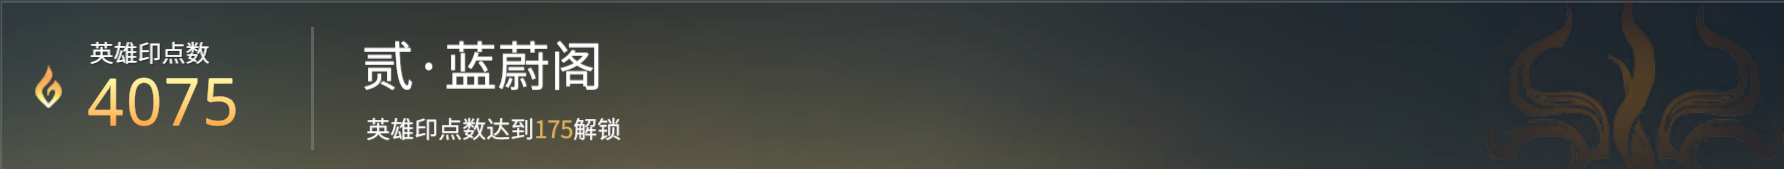
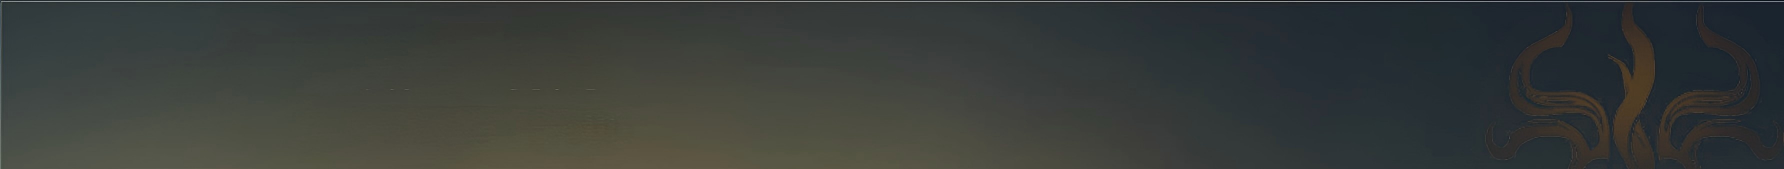
feat:补充英雄印细节

diff --git a/NarakaBladepoint.Modules/CommonFunction/UI/Store/Views/StoreHeroTagPage.xaml b/NarakaBladepoint.Modules/CommonFunction/UI/Store/Views/StoreHeroTagPage.xaml
@@ -3,6 +3,7 @@
     xmlns="http://schemas.microsoft.com/winfx/2006/xaml/presentation"
     xmlns:x="http://schemas.microsoft.com/winfx/2006/xaml"
     xmlns:controls="clr-namespace:NarakaBladepoint.Controls;assembly=NarakaBladepoint.Controls"
+    xmlns:converters="clr-namespace:NarakaBladepoint.Modules.CommonFunction.UI.Store.Converters"
     xmlns:d="http://schemas.microsoft.com/expression/blend/2008"
     xmlns:local="clr-namespace:NarakaBladepoint.Modules.CommonFunction.UI.Store.Views"
     xmlns:mc="http://schemas.openxmlformats.org/markup-compatibility/2006"
@@ -12,6 +13,25 @@
     d:DesignHeight="720"
     d:DesignWidth="1080"
     mc:Ignorable="d">
+    <views:UserControlBase.Resources>
+        <converters:EqualityConverter x:Key="EqualityConverter" />
+
+        <!--  Hero Tag Info Panel Style  -->
+        <Style x:Key="HeroTagInfoPanelStyle" TargetType="StackPanel">
+            <Setter Property="Background" Value="{StaticResource HeroTagBackground2Brush}" />
+            <Style.Triggers>
+                <DataTrigger Binding="{Binding SelectedTagIndex}" Value="1">
+                    <Setter Property="Background" Value="{StaticResource HeroTagBackground1Brush}" />
+                </DataTrigger>
+                <DataTrigger Binding="{Binding SelectedTagIndex}" Value="2">
+                    <Setter Property="Background" Value="{StaticResource HeroTagBackground1Brush}" />
+                </DataTrigger>
+                <DataTrigger Binding="{Binding SelectedTagIndex}" Value="3">
+                    <Setter Property="Background" Value="{StaticResource HeroTagBackground1Brush}" />
+                </DataTrigger>
+            </Style.Triggers>
+        </Style>
+    </views:UserControlBase.Resources>
     <Grid d:Background="{StaticResource Background2}">
         <Grid Margin="50,0,50,120">
             <Grid.RowDefinitions>
@@ -21,17 +41,12 @@
 
             <!--  Top header - Diamond info  -->
             <StackPanel HorizontalAlignment="Right" Orientation="Horizontal">
-                <TextBlock
-                    VerticalAlignment="Center"
-                    FontSize="12"
-                    Foreground="White"
-                    Text="💎 " />
-                <TextBlock
-                    VerticalAlignment="Center"
-                    d:Text="86924"
-                    FontSize="12"
-                    FontWeight="Bold"
-                    Foreground="White" />
+                <controls:ToggleButtonComboBox
+                    Width="200"
+                    Height="30"
+                    Margin="0,0,15,0"
+                    ItemsSource="{Binding QualityList}"
+                    SelectedIndex="{Binding SelectedQualityIndex}" />
             </StackPanel>
 
             <!--  Main content grid  -->
@@ -54,7 +69,7 @@
                             <controls:HighlightBorder
                                 Height="45"
                                 Background="{StaticResource DefaultTransientBlackBackground2}"
-                                BorderBrush="White"
+                                BorderBrush="{Binding SelectedTagIndex, Converter={StaticResource EqualityConverter}, ConverterParameter=1}"
                                 BorderThickness="2">
                                 <TextBlock
                                     Margin="15,0,0,0"
@@ -72,7 +87,9 @@
                             <controls:HighlightBorder
                                 Height="45"
                                 Margin="0,8,0,0"
-                                Background="{StaticResource DefaultTransientBlackBackground2}">
+                                Background="{StaticResource DefaultTransientBlackBackground2}"
+                                BorderBrush="{Binding SelectedTagIndex, Converter={StaticResource EqualityConverter}, ConverterParameter=2}"
+                                BorderThickness="2">
                                 <TextBlock
                                     Margin="15,0,0,0"
                                     VerticalAlignment="Center"
@@ -89,7 +106,9 @@
                             <controls:HighlightBorder
                                 Height="45"
                                 Margin="0,8,0,0"
-                                Background="{StaticResource DefaultTransientBlackBackground2}">
+                                Background="{StaticResource DefaultTransientBlackBackground2}"
+                                BorderBrush="{Binding SelectedTagIndex, Converter={StaticResource EqualityConverter}, ConverterParameter=3}"
+                                BorderThickness="2">
                                 <TextBlock
                                     Margin="15,0,0,0"
                                     VerticalAlignment="Center"
@@ -106,7 +125,9 @@
                             <controls:HighlightBorder
                                 Height="45"
                                 Margin="0,8,0,0"
-                                Background="{StaticResource DefaultTransientBlackBackground2}">
+                                Background="{StaticResource DefaultTransientBlackBackground2}"
+                                BorderBrush="{Binding SelectedTagIndex, Converter={StaticResource EqualityConverter}, ConverterParameter=4}"
+                                BorderThickness="2">
                                 <TextBlock
                                     Margin="15,0,0,0"
                                     VerticalAlignment="Center"
@@ -123,7 +144,9 @@
                             <controls:HighlightBorder
                                 Height="45"
                                 Margin="0,8,0,0"
-                                Background="{StaticResource DefaultTransientBlackBackground2}">
+                                Background="{StaticResource DefaultTransientBlackBackground2}"
+                                BorderBrush="{Binding SelectedTagIndex, Converter={StaticResource EqualityConverter}, ConverterParameter=5}"
+                                BorderThickness="2">
                                 <TextBlock
                                     Margin="15,0,0,0"
                                     VerticalAlignment="Center"
@@ -140,13 +163,15 @@
                             <controls:HighlightBorder
                                 Height="45"
                                 Margin="0,8,0,0"
-                                Background="{StaticResource DefaultTransientBlackBackground2}">
+                                Background="{StaticResource DefaultTransientBlackBackground2}"
+                                BorderBrush="{Binding SelectedTagIndex, Converter={StaticResource EqualityConverter}, ConverterParameter=6}"
+                                BorderThickness="2">
                                 <TextBlock
                                     Margin="15,0,0,0"
                                     VerticalAlignment="Center"
                                     FontSize="14"
                                     Foreground="White"
-                                    Text="{Binding SelectedTagName}" />
+                                    Text="陆·紫冥阁" />
                                 <controls:HighlightBorder.InputBindings>
                                     <MouseBinding
                                         Command="{Binding SelectTagCommand}"
@@ -175,8 +200,9 @@
                     <!--  Info panel - Aligned with ItemsControl  -->
                     <StackPanel
                         Name="infoPanel"
-                        d:Background="Gray"
-                        Orientation="Vertical">
+                        d:Background="{StaticResource HeroTagBackground1Brush}"
+                        Orientation="Vertical"
+                        Style="{StaticResource HeroTagInfoPanelStyle}">
                         <StackPanel VerticalAlignment="Center" Orientation="Vertical">
                             <TextBlock Foreground="Gray" Text="英雄印点数" />
                             <TextBlock
@@ -203,7 +229,7 @@
                         </ItemsControl.Template>
                         <ItemsControl.ItemsPanel>
                             <ItemsPanelTemplate>
-                                <UniformGrid Columns="5" />
+                                <UniformGrid Columns="5" Rows="3" />
                             </ItemsPanelTemplate>
                         </ItemsControl.ItemsPanel>
                         <ItemsControl.ItemTemplate>

diff --git a/NarakaBladepoint.Modules/EventCenter/UI/Main/Views/EventCenterMainPage.xaml b/NarakaBladepoint.Modules/EventCenter/UI/Main/Views/EventCenterMainPage.xaml
@@ -1,25 +1,25 @@
 <bases:UserControlBase
-x:Class="NarakaBladepoint.Modules.EventCenter.UI.Main.Views.EventCenterMainPage"
-xmlns="http://schemas.microsoft.com/winfx/2006/xaml/presentation"
-xmlns:x="http://schemas.microsoft.com/winfx/2006/xaml"
-xmlns:b="clr-namespace:Microsoft.Xaml.Behaviors;assembly=Microsoft.Xaml.Behaviors"
-xmlns:baize="clr-namespace:NarakaBladepoint.Modules.EventCenter.UI.BaiZeCard.Views"
-xmlns:bases="clr-namespace:NarakaBladepoint.Framework.Core.Bases.Views;assembly=NarakaBladepoint.Framework"
-xmlns:bindReward="clr-namespace:NarakaBladepoint.Modules.EventCenter.UI.BindReward.Views"
-xmlns:controls="clr-namespace:NarakaBladepoint.Controls;assembly=NarakaBladepoint.Controls"
-xmlns:d="http://schemas.microsoft.com/expression/blend/2008"
-xmlns:latestNews="clr-namespace:NarakaBladepoint.Modules.EventCenter.UI.LatestNews.Views"
-xmlns:mc="http://schemas.openxmlformats.org/markup-compatibility/2006"
-xmlns:moonGazingPavilion="clr-namespace:NarakaBladepoint.Modules.EventCenter.UI.MoonGazingPavilion.Views"
-xmlns:netEasePayRewards="clr-namespace:NarakaBladepoint.Modules.EventCenter.UI.NetEasePayRewards.Views"
-xmlns:passingTheFlame="clr-namespace:NarakaBladepoint.Modules.EventCenter.UI.PassingTheFlame.Views"
-xmlns:patchNotePage="clr-namespace:NarakaBladepoint.Modules.EventCenter.UI.PatchNote.Views"
-xmlns:penglaiGuide="clr-namespace:NarakaBladepoint.Modules.EventCenter.UI.PenglaiGuide.Views"
-xmlns:prism="http://prismlibrary.com/"
-xmlns:targetedChestGuarantee="clr-namespace:NarakaBladepoint.Modules.EventCenter.UI.TargetedChestGuarantee.Views"
-xmlns:timeLimitedEvent="clr-namespace:NarakaBladepoint.Modules.EventCenter.UI.TimeLimitedEvent.Views"
-xmlns:viewmodels="clr-namespace:NarakaBladepoint.Modules.EventCenter.UI.Main.ViewModels"
-xmlns:welcomeback="clr-namespace:NarakaBladepoint.Modules.EventCenter.UI.WelcomeBackEvent.Views"
+    x:Class="NarakaBladepoint.Modules.EventCenter.UI.Main.Views.EventCenterMainPage"
+    xmlns="http://schemas.microsoft.com/winfx/2006/xaml/presentation"
+    xmlns:x="http://schemas.microsoft.com/winfx/2006/xaml"
+    xmlns:b="clr-namespace:Microsoft.Xaml.Behaviors;assembly=Microsoft.Xaml.Behaviors"
+    xmlns:baize="clr-namespace:NarakaBladepoint.Modules.EventCenter.UI.BaiZeCard.Views"
+    xmlns:bases="clr-namespace:NarakaBladepoint.Framework.Core.Bases.Views;assembly=NarakaBladepoint.Framework"
+    xmlns:bindReward="clr-namespace:NarakaBladepoint.Modules.EventCenter.UI.BindReward.Views"
+    xmlns:controls="clr-namespace:NarakaBladepoint.Controls;assembly=NarakaBladepoint.Controls"
+    xmlns:d="http://schemas.microsoft.com/expression/blend/2008"
+    xmlns:latestNews="clr-namespace:NarakaBladepoint.Modules.EventCenter.UI.LatestNews.Views"
+    xmlns:mc="http://schemas.openxmlformats.org/markup-compatibility/2006"
+    xmlns:moonGazingPavilion="clr-namespace:NarakaBladepoint.Modules.EventCenter.UI.MoonGazingPavilion.Views"
+    xmlns:netEasePayRewards="clr-namespace:NarakaBladepoint.Modules.EventCenter.UI.NetEasePayRewards.Views"
+    xmlns:passingTheFlame="clr-namespace:NarakaBladepoint.Modules.EventCenter.UI.PassingTheFlame.Views"
+    xmlns:patchNotePage="clr-namespace:NarakaBladepoint.Modules.EventCenter.UI.PatchNote.Views"
+    xmlns:penglaiGuide="clr-namespace:NarakaBladepoint.Modules.EventCenter.UI.PenglaiGuide.Views"
+    xmlns:prism="http://prismlibrary.com/"
+    xmlns:targetedChestGuarantee="clr-namespace:NarakaBladepoint.Modules.EventCenter.UI.TargetedChestGuarantee.Views"
+    xmlns:timeLimitedEvent="clr-namespace:NarakaBladepoint.Modules.EventCenter.UI.TimeLimitedEvent.Views"
+    xmlns:viewmodels="clr-namespace:NarakaBladepoint.Modules.EventCenter.UI.Main.ViewModels"
+    xmlns:welcomeback="clr-namespace:NarakaBladepoint.Modules.EventCenter.UI.WelcomeBackEvent.Views"
     d:DataContext="{d:DesignInstance Type=viewmodels:EventCenterMainPageViewModel}"
     d:DesignHeight="720"
     d:DesignWidth="1080"
@@ -157,7 +157,8 @@ xmlns:welcomeback="clr-namespace:NarakaBladepoint.Modules.EventCenter.UI.Welcome
                     VerticalAlignment="Center"
                     Background="Transparent"
                     Header=""
-                    Style="{StaticResource CommonFunctionTabItem}" />
+                    Style="{StaticResource CommonFunctionTabItem}"
+                    Visibility="Hidden" />
             </TabControl>
         </Grid>
         <controls:EscBackControl

diff --git a/NarakaBladepoint.Controls/Themes/ImageSourceStyle.xaml b/NarakaBladepoint.Controls/Themes/ImageSourceStyle.xaml
@@ -6,6 +6,10 @@
     <BitmapImage x:Key="Background4Image" UriSource="pack://application:,,,/NarakaBladepoint.Resources;component/Image/background4.png" />
     <BitmapImage x:Key="Background5Image" UriSource="pack://application:,,,/NarakaBladepoint.Resources;component/Image/background5.png" />
 
+    <!--  Hero Tag Background Images  -->
+    <BitmapImage x:Key="HeroTagBackground1Image" UriSource="pack://application:,,,/NarakaBladepoint.Resources;component/Image/Store/HeroTag/background1.png" />
+    <BitmapImage x:Key="HeroTagBackground2Image" UriSource="pack://application:,,,/NarakaBladepoint.Resources;component/Image/Store/HeroTag/background2.png" />
+
     <!--  Button Images  -->
     <BitmapImage x:Key="MusicImage" UriSource="pack://application:,,,/NarakaBladepoint.Resources;component/Image/Button/音乐.png" />
     <BitmapImage x:Key="TutorialImage" UriSource="pack://application:,,,/NarakaBladepoint.Resources;component/Image/Button/教程.png" />

diff --git a/NarakaBladepoint.Controls/Themes/BrushStyle.xaml b/NarakaBladepoint.Controls/Themes/BrushStyle.xaml
@@ -23,6 +23,16 @@
         x:Key="PersonalInfoDetailsBackgroundBrush"
         ImageSource="{StaticResource PersonalInfoDetailsBackgroundImage}"
         Stretch="Fill" />
+
+    <!--  Hero Tag Background Brushes  -->
+    <ImageBrush
+        x:Key="HeroTagBackground1Brush"
+        ImageSource="{StaticResource HeroTagBackground1Image}"
+        Stretch="Fill" />
+    <ImageBrush
+        x:Key="HeroTagBackground2Brush"
+        ImageSource="{StaticResource HeroTagBackground2Image}"
+        Stretch="Fill" />
     <SolidColorBrush x:Key="DefaultTransientBlackBackground" Color="#1A000000" />
     <SolidColorBrush x:Key="DefaultTransientBlackBackground2" Color="#2A000000" />
     <SolidColorBrush x:Key="DefaultTransientBlackBackground3" Color="#3A000000" />

diff --git a/NarakaBladepoint.Modules/CommonFunction/UI/Store/Views/StoreOverviewPage.xaml b/NarakaBladepoint.Modules/CommonFunction/UI/Store/Views/StoreOverviewPage.xaml
@@ -42,6 +42,7 @@
                     Orientation="Vertical">
                     <controls:ToggleButtonComboBox
                         Height="30"
+                        Name="combobox1"
                         ItemsSource="{Binding QualityList}"
                         SelectedIndex="{Binding SelectedQualityIndex}" />
                     <controls:ToggleButtonComboBox

diff --git a/NarakaBladepoint.Modules/CommonFunction/UI/Store/ViewModels/StoreHeroTagPageViewModel.cs b/NarakaBladepoint.Modules/CommonFunction/UI/Store/ViewModels/StoreHeroTagPageViewModel.cs
@@ -12,6 +12,8 @@ namespace NarakaBladepoint.Modules.CommonFunction.UI.Store.ViewModels
         private int _selectedTagIndex = 1;
         private string _selectedTagName = "壹·青空阁";
         private ObservableCollection<ImageSource> _currentTagImages;
+        private ObservableCollection<string> _qualityList;
+        private int _selectedQualityIndex = 0;
         private DelegateCommand<string> _selectTagCommand;
 
         // 标签索引与名称的映射
@@ -30,8 +32,10 @@ namespace NarakaBladepoint.Modules.CommonFunction.UI.Store.ViewModels
             get => _selectedTagIndex;
             set
             {
-                if (SetProperty(ref _selectedTagIndex, value))
+                if (_selectedTagIndex != value)
                 {
+                    _selectedTagIndex = value;
+                    RaisePropertyChanged();
                     LoadTagImages(_selectedTagIndex);
                     // 更新选中的标签名称
                     if (TagNameMap.TryGetValue(value, out var tagName))
@@ -45,13 +49,65 @@ namespace NarakaBladepoint.Modules.CommonFunction.UI.Store.ViewModels
         public string SelectedTagName
         {
             get => _selectedTagName;
-            set => SetProperty(ref _selectedTagName, value);
+            set
+            {
+                if (_selectedTagName != value)
+                {
+                    _selectedTagName = value;
+                    RaisePropertyChanged();
+                }
+            }
         }
 
         public ObservableCollection<ImageSource> CurrentTagImages
         {
             get => _currentTagImages;
-            set => SetProperty(ref _currentTagImages, value);
+            set
+            {
+                if (_currentTagImages != value)
+                {
+                    _currentTagImages = value;
+                    RaisePropertyChanged();
+                }
+            }
+        }
+
+        /// <summary>
+        /// 品质列表（全部品质、良品、优品、极品、神品）
+        /// </summary>
+        public ObservableCollection<string> QualityList
+        {
+            get
+            {
+                if (_qualityList == null)
+                {
+                    _qualityList = new ObservableCollection<string>
+                    {
+                        "全部品质",
+                        "良品",
+                        "优品",
+                        "极品",
+                        "神品"
+                    };
+                }
+                return _qualityList;
+            }
+        }
+
+        /// <summary>
+        /// 选中的品质索引
+        /// </summary>
+        public int SelectedQualityIndex
+        {
+            get => _selectedQualityIndex;
+            set
+            {
+                if (_selectedQualityIndex != value)
+                {
+                    _selectedQualityIndex = value;
+                    RaisePropertyChanged();
+                }
+            }
         }
 
         public DelegateCommand<string> SelectTagCommand =>

diff --git a/NarakaBladepoint.Modules/CommonFunction/UI/Store/Converters/EqualityConverter.cs b/NarakaBladepoint.Modules/CommonFunction/UI/Store/Converters/EqualityConverter.cs
@@ -1,0 +1,46 @@
+using System.Globalization;
+using System.Windows.Data;
+using System.Windows.Media;
+
+namespace NarakaBladepoint.Modules.CommonFunction.UI.Store.Converters
+{
+    /// <summary>
+    /// 比较两个值是否相等的转换器，用于返回不同的Brush或其他值
+    /// 相等时返回White，不相等时返回Transparent
+    /// </summary>
+    internal class EqualityConverter : IValueConverter
+    {
+        public object Convert(object value, Type targetType, object parameter, CultureInfo culture)
+        {
+            if (value == null || parameter == null)
+            {
+                return GetFalseValue(targetType);
+            }
+
+            bool isEqual = value.ToString() == parameter.ToString();
+
+            // 如果目标类型是Brush，返回颜色Brush
+            if (targetType == typeof(Brush) || targetType == typeof(SolidColorBrush))
+            {
+                return isEqual ? Brushes.White : Brushes.Transparent;
+            }
+
+            // 其他类型返回bool
+            return isEqual;
+        }
+
+        public object ConvertBack(object value, Type targetType, object parameter, CultureInfo culture)
+        {
+            throw new NotImplementedException();
+        }
+
+        private object GetFalseValue(Type targetType)
+        {
+            if (targetType == typeof(Brush) || targetType == typeof(SolidColorBrush))
+            {
+                return Brushes.Transparent;
+            }
+            return false;
+        }
+    }
+}
